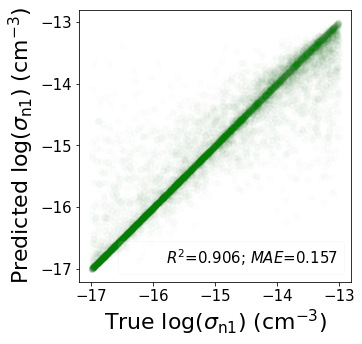
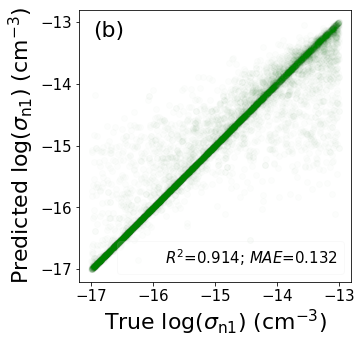
s

diff --git a/2_levels_problem/mode2/true_prediction_plot/plot_together.py b/2_levels_problem/mode2/true_prediction_plot/plot_together.py
@@ -112,14 +112,14 @@ path_Sp2_00_n = r'C:\Users\sijin wang\Desktop\research\thesiswork\ML_results\wit
 # Sp1list = [path_Sp1_11_p, path_Sp1_11_n, path_Sp1_10_p, path_Sp1_10_n, path_Sp1_01_p, path_Sp1_01_n, path_Sp1_00_p, path_Sp1_00_n]
 # Sp2list = [path_Sp2_11_p, path_Sp2_11_n, path_Sp2_10_p, path_Sp2_10_n, path_Sp2_01_p, path_Sp2_01_n, path_Sp2_00_p, path_Sp2_00_n]
 # p.
-Et1list = [path_Et1_11_p, path_Et1_10_p, path_Et1_01_p, path_Et1_00_p]
-Et2list = [path_Et2_11_p, path_Et2_10_p, path_Et2_01_p, path_Et2_00_p]
-Sn1list = [path_Sn1_11_p,  path_Sn1_10_p,path_Sn1_01_p, path_Sn1_00_p]
-Sn2list = [path_Sn2_11_p, path_Sn2_10_p, path_Sn2_01_p, path_Sn2_00_p]
-Sp1list = [path_Sp1_11_p, path_Sp1_10_p, path_Sp1_01_p, path_Sp1_00_p]
-Sp2list = [path_Sp2_11_p, path_Sp2_10_p, path_Sp2_01_p, path_Sp2_00_p]
-k1list = [path_k1_11_p, path_k1_10_p, path_k1_01_p, path_k1_00_p]
-k2list = [path_k2_11_p, path_k2_10_p, path_k2_01_p, path_k2_00_p]
+# Et1list = [path_Et1_11_p, path_Et1_10_p, path_Et1_01_p, path_Et1_00_p]
+# Et2list = [path_Et2_11_p, path_Et2_10_p, path_Et2_01_p, path_Et2_00_p]
+# Sn1list = [path_Sn1_11_p,  path_Sn1_10_p,path_Sn1_01_p, path_Sn1_00_p]
+# Sn2list = [path_Sn2_11_p, path_Sn2_10_p, path_Sn2_01_p, path_Sn2_00_p]
+# Sp1list = [path_Sp1_11_p, path_Sp1_10_p, path_Sp1_01_p, path_Sp1_00_p]
+# Sp2list = [path_Sp2_11_p, path_Sp2_10_p, path_Sp2_01_p, path_Sp2_00_p]
+# k1list = [path_k1_11_p, path_k1_10_p, path_k1_01_p, path_k1_00_p]
+# k2list = [path_k2_11_p, path_k2_10_p, path_k2_01_p, path_k2_00_p]
 # n
 # Et1list = [path_Et1_11_n, path_Et1_10_n, path_Et1_01_n, path_Et1_00_n]
 # Et2list = [path_Et2_11_n, path_Et2_10_n, path_Et2_01_n, path_Et2_00_n]
@@ -129,6 +129,15 @@ k2list = [path_k2_11_p, path_k2_10_p, path_k2_01_p, path_k2_00_p]
 # Sp2list = [path_Sp2_11_n, path_Sp2_10_n, path_Sp2_01_n, path_Sp2_00_n]
 # k1list = [path_k1_11_n, path_k1_10_n, path_k1_01_n, path_k1_00_n]
 # k2list = [path_k2_11_n, path_k2_10_n, path_k2_01_n, path_k2_00_n]
+# p set 11:
+Et1list = [path_Et1_11_p]
+Et2list = [path_Et2_11_p]
+Sn1list = [path_Sn1_11_p]
+Sn2list = [path_Sn2_11_p]
+Sp1list = [path_Sp1_11_p]
+Sp2list = [path_Sp2_11_p]
+k1list = [path_k1_11_p]
+k2list = [path_k2_11_p]
 # %%-
 
 
@@ -256,18 +265,22 @@ for task in [Et1list, Et2list, Sn1list, Sn2list, Sp1list, Sp2list, k1list, k2lis
     plt.xlabel(xlabels[counter], fontsize=22)
     plt.ylabel(ylabels[counter], fontsize=22)
     ax.set_aspect("equal")
-    # # plt.text(0, 0.5, alphabet[k], fontsize=20)
     # # plt.title(str(titlelist[counter]), fontsize=25)
     plt.legend(loc=4, framealpha=0.1, fontsize=15)
     plt.xticks(fontsize=15)
     plt.yticks(fontsize=15)
-    # plt.text(0.05, 0.9, textlist[counter], transform=ax.transAxes, fontsize=22)
+    plt.text(0.05, 0.9, textlist[counter], transform=ax.transAxes, fontsize=22)
     if filename[0] == 'S':
         plt.xticks(range(-17, -12))
         plt.yticks(range(-17, -12))
     if filename[0] == 'E':
-        plt.xticks([-0.6, -0.4, -0.2, 0, 0.2, 0.4, 0.6])
-        plt.yticks([-0.6, -0.4, -0.2, 0, 0.2, 0.4, 0.6])
+        # plt.xticks([-0.6, -0.4, -0.2, 0, 0.2, 0.4, 0.6])
+        # plt.yticks([-0.6, -0.4, -0.2, 0, 0.2, 0.4, 0.6])
+        plt.xticks([0, 0.2, 0.4, 0.6])
+        plt.yticks([0, 0.2, 0.4, 0.6])
+        # plt.xticks([-0.6, -0.4, -0.2, 0])
+        # plt.yticks([-0.6, -0.4, -0.2, 0])
+
     plt.savefig(fname=str(filetnamelist[counter]) + 'without center line' + '.png', bbox_inches='tight')
     plt.show()
 
@@ -290,7 +303,7 @@ for task in [Et1list, Et2list, Sn1list, Sn2list, Sp1list, Sp2list, k1list, k2lis
         # print(filename)
         plt.xticks(range(-17, -12))
         plt.yticks(range(-17, -12))
-    if filename[0] == 'E':
+    if filename[0] == 'E' and len(task)>1:
         plt.xticks([-0.6, -0.4, -0.2, 0, 0.2, 0.4, 0.6])
         plt.yticks([-0.6, -0.4, -0.2, 0, 0.2, 0.4, 0.6])
     plt.savefig(fname=str(filetnamelist[counter]) + 'with center line' + '.png', bbox_inches='tight')

diff --git a/2_levels_problem/mode2/plot_lifetime.py b/2_levels_problem/mode2/plot_lifetime.py
@@ -36,11 +36,15 @@ Et1_one_path = r'C:\Users\sijin wang\Desktop\research\thesiswork\thesis3\Et1_Et2
 Et1_two_path = r'C:\Users\sijin wang\Desktop\research\thesiswork\thesis3\Et1_Et2_cover\Et1_dominate\two_level.csv'
 Et2_one_path = r'C:\Users\sijin wang\Desktop\research\thesiswork\thesis3\Et1_Et2_cover\Et2_dominate\Et2_one_level_defect.csv'
 Et2_two_path = r'C:\Users\sijin wang\Desktop\research\thesiswork\thesis3\Et1_Et2_cover\Et2_dominate\two_level_defect.csv'
+Et2_0_1_path = r'C:\Users\sijin wang\Desktop\research\thesiswork\thesis3\Et1_Et2_cover\Et2_not_sensitive\Et2_0_1.csv'
+Et2_0_path = r'C:\Users\sijin wang\Desktop\research\thesiswork\thesis3\Et1_Et2_cover\Et2_not_sensitive\Et2_0.csv'
 
 Et1_one_lifetime = pd.read_csv(Et1_one_path)
 Et1_two_lifetime = pd.read_csv(Et1_two_path)
 Et2_one_lifetime = pd.read_csv(Et2_one_path)
 Et2_two_lifetime = pd.read_csv(Et2_two_path)
+Et2_0_1_lifetime = pd.read_csv(Et2_0_1_path)
+Et2_0_lifetime = pd.read_csv(Et2_0_path)
 # %%-
 
 
@@ -48,6 +52,7 @@ Et2_two_lifetime = pd.read_csv(Et2_two_path)
 plt.figure(facecolor='white', figsize=(5, 5))
 plt.plot(Et1_one_lifetime.iloc[:, 0], Et1_one_lifetime.iloc[:, 1], label='One level defect lifetime of $E_{t1}$')
 plt.plot(Et1_two_lifetime.iloc[:, 0], Et1_two_lifetime.iloc[:, 1], label='Two level defect')
+print(np.max(Et1_one_lifetime.iloc[:, 1]-Et1_two_lifetime.iloc[:, 1]))
 plt.legend(fontsize=13)
 plt.xscale('log')
 plt.yscale('log')
@@ -83,6 +88,40 @@ plt.show()
 plt.figure(facecolor='white', figsize=(5, 5))
 plt.plot(Et2_one_lifetime.iloc[:, 0], Et2_one_lifetime.iloc[:, 1], label='One level defect lifetime of $E_{t2}$')
 plt.plot(Et2_two_lifetime.iloc[:, 0], Et2_two_lifetime.iloc[:, 1], label='Two level defect')
+plt.legend(fontsize=13)
+plt.xscale('log')
+plt.yscale('log')
+plt.xlabel(r'Excess carrer concentration ($\rm cm^{-3}$)', fontsize=22)
+plt.ylabel('Lifetime(s)', fontsize=22)
+# plt.title('$E_{t1}=-0.5 eV$; $E_{t2}=-0.5 eV$' )
+# plt.xlim([10**(16.9), 1e17])
+# plt.ylim([1e-5, 10**-4.6])
+plt.xticks(fontsize=20)
+plt.yticks(fontsize=20)
+plt.savefig('Et2_dominate.png', bbox_inches='tight')
+plt.show()
+
+plt.figure(facecolor='white')
+plt.plot(Et2_one_lifetime.iloc[:, 0], Et2_one_lifetime.iloc[:, 1], label='One level defect lifetime of $E_{t2}$ only')
+plt.plot(Et2_two_lifetime.iloc[:, 0], Et2_two_lifetime.iloc[:, 1], label='Two level defect')
+plt.legend(fontsize=15)
+plt.xscale('log')
+plt.yscale('log')
+plt.xlabel('Excess carrer concentration ($cm^{-3}$)', fontsize=22)
+plt.ylabel('Lifetime(s)', fontsize=22)
+# plt.title('$E_{t1}=-0.5 eV$; $E_{t2}=-0.5 eV$' )
+plt.xlim([10**(16.9), 1e17])
+plt.ylim([1e-5, 10**-4.6])
+plt.savefig('Et2_dominate_zoomin.png', bbox_inches='tight')
+plt.show()
+# %%-
+
+
+# %%-- Plot Et2 not sensitive.
+plt.figure(facecolor='white', figsize=(5, 5))
+plt.plot(Et2_0_1_lifetime.iloc[:, 0], Et2_0_1_lifetime.iloc[:, 1], label=r'$E_{\rm t2}$ = 0.1 eV')
+plt.plot(Et2_0_lifetime.iloc[:, 0], Et2_0_lifetime.iloc[:, 1], label=r'$E_{\rm t2}$ = 0 eV')
+print(np.max(Et2_0_1_lifetime.iloc[:, 1]-Et2_0_lifetime.iloc[:, 1]))
 plt.legend(fontsize=13)
 plt.xscale('log')
 plt.yscale('log')

diff --git a/2_levels_problem/mode2/Yan_DPSS_code/test.py b/2_levels_problem/mode2/Yan_DPSS_code/test.py
@@ -310,11 +310,13 @@ im1 = plt.imshow(residuallistr,extent =extent, aspect='equal', origin = 'lower',
 cb = plt.colorbar(im1, label='Fitting residual')
 cb.set_label(label='Fitting residual',fontsize=16)
 cb.ax.tick_params(labelsize=15)
-# plt.plot(Etlist[optind][1],Etlist[optind][0],'bo')
-# plt.plot([-0.33], [0.145], 'w*', markersize=10)
-# plt.plot([-0.3],[0.15],'r*', markersize=10)
-# plt.annotate('True value', (-0.3, 0.18), color='red', fontsize=15)
-# plt.annotate('ML prediction', (-0.4, 0.05), color='white', fontsize=15)
+plt.plot(Etlist[optind][1],Etlist[optind][0],'bo')
+print(Etlist[optind][1])
+print(Etlist[optind][0])
+plt.plot([-0.33], [0.145], 'w*', markersize=10)
+plt.plot([-0.3],[0.15],'r*', markersize=10)
+plt.annotate('True value', (-0.3, 0.18), color='red', fontsize=15)
+plt.annotate('ML prediction', (-0.4, 0.05), color='white', fontsize=15)
 plt.xlabel(r'$E_{\rm t2}-E_{\rm i} \/\/ \rm (eV)$', fontsize=22)
 plt.ylabel(r'$E_{\rm t1}-E_{\rm i} \/\/ \rm (eV)$', fontsize=22)
 plt.xticks(fontsize=15)
@@ -358,7 +360,7 @@ im1 = plt.imshow(residuallistr,extent =extent, aspect='equal', origin = 'lower',
 cb = plt.colorbar(im1, label='Fitting residual', pad=0.1)
 cb.ax.tick_params(labelsize=15)
 cb.set_label(label='Fitting residual',fontsize=16)
-
+plt.plot(Etlist[optind][1],Etlist[optind][0],'bo')
 # plt.plot([-0.303], [0.146], 'y*', markersize=10)
 plt.plot([-0.3],[0.15],'r*', markersize=10)
 plt.plot([-0.32], [0.145], 'w*', markersize=10)
